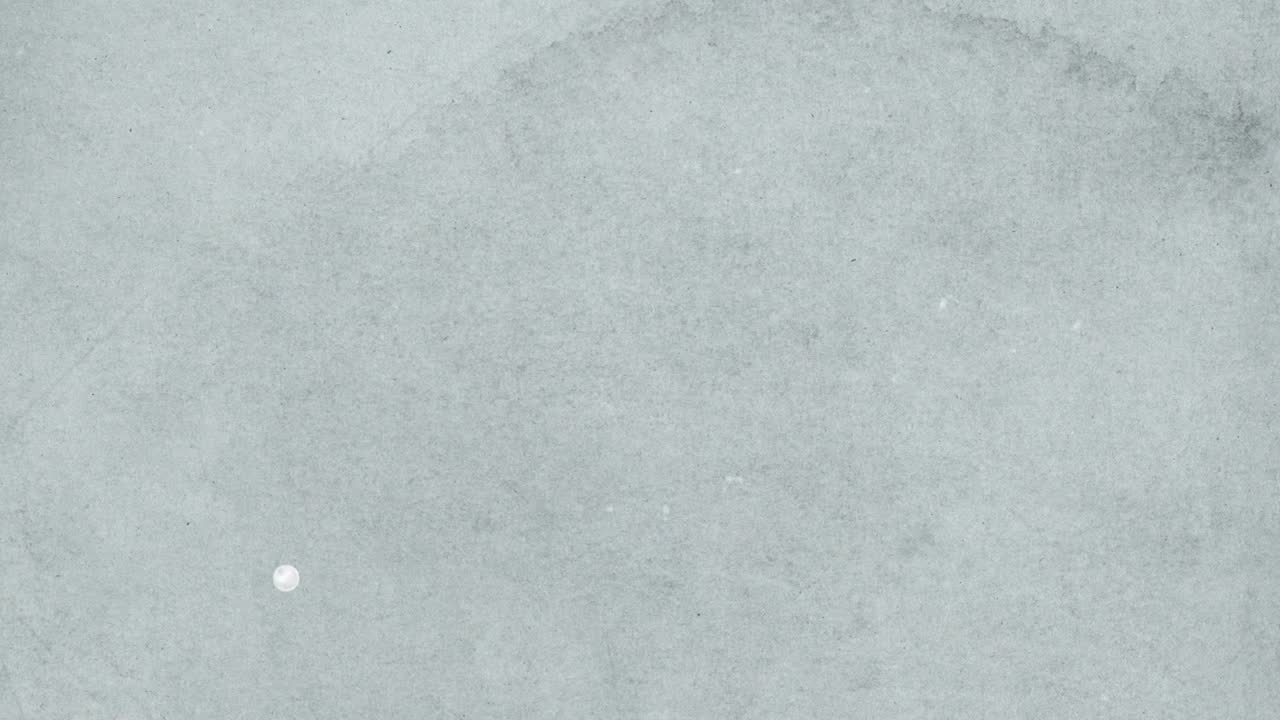
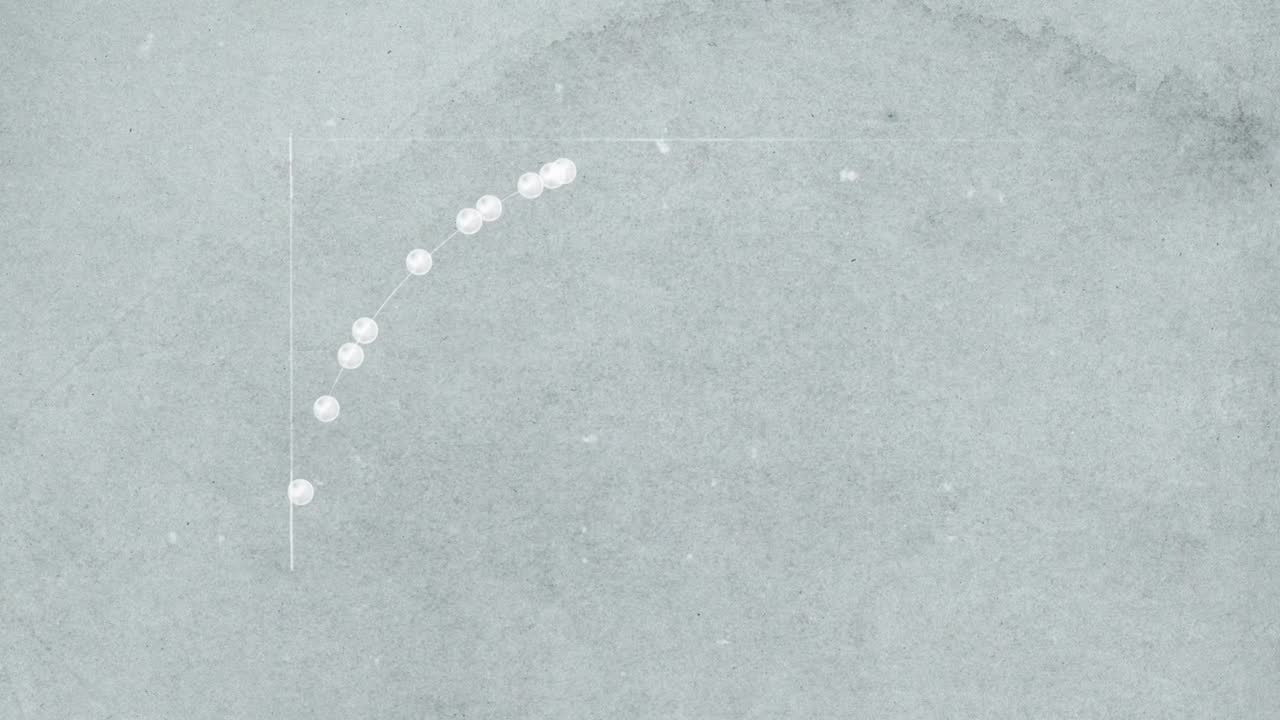
인트로 단축: 영상 앞뒤 0.5초 트림(2.9s) + 페이드인 1s(재생중) + 페이드아웃 1.2s 전부터 0.6s로

diff --git a/components/intro.tsx b/components/intro.tsx
@@ -4,15 +4,16 @@ import { useCallback, useEffect, useRef, useState } from "react";
 
 /**
  * Session-once intro splash: a white screen with a small, subtle (50%) video.
- * The video fades IN over the (instantly-white, flash-free) cover, plays, and
- * the whole thing fades OUT starting shortly before the clip ends so the reveal
- * overlaps the last moment of the video for a smoother hand-off to the site.
+ * The video fades IN over ~1s while it plays, then the whole thing fades OUT
+ * starting well before the clip ends so the hand-off to the site feels quick
+ * and smooth (the video is also pre-trimmed front/back to ~2.9s).
  *
  * Skipped on repeat visits in the same session and for "reduce motion" users
  * (both handled by the inline boot script in app/layout.tsx).
  */
-const FADE_MS = 700;
-const FADE_LEAD = 0.8; // begin fading out this many seconds before the video ends
+const FADE_IN_MS = 1000; // video rises up over its first second (while playing)
+const FADE_OUT_MS = 600; // quicker fade out
+const FADE_LEAD = 1.2; // begin fading out this many seconds before the video ends
 
 export function Intro() {
   const [show, setShow] = useState(false);
@@ -29,7 +30,7 @@ export function Intro() {
     window.setTimeout(() => {
       root.classList.remove("mt-intro-on", "mt-intro-out", "mt-intro-lock");
       setShow(false);
-    }, FADE_MS + 60);
+    }, FADE_OUT_MS + 60);
   }, []);
 
   useEffect(() => {
@@ -41,7 +42,7 @@ export function Intro() {
     }
     setShow(true);
     const fadeIn = window.setTimeout(() => setEntered(true), 50); // paint at 0, then fade in
-    const safety = window.setTimeout(dismiss, 5500); // fallback if playback is blocked
+    const safety = window.setTimeout(dismiss, 4000); // fallback if playback is blocked
     return () => {
       window.clearTimeout(fadeIn);
       window.clearTimeout(safety);
@@ -62,7 +63,7 @@ export function Intro() {
       className="fixed inset-0 z-[9991] flex cursor-pointer items-center justify-center transition-opacity ease-out"
       style={{
         opacity: out ? 0 : entered ? 1 : 0,
-        transitionDuration: `${FADE_MS}ms`,
+        transitionDuration: `${out ? FADE_OUT_MS : FADE_IN_MS}ms`,
       }}
     >
       <video

diff --git a/app/globals.css b/app/globals.css
@@ -73,7 +73,7 @@
     background-color: #ffffff;
     z-index: 9990;
     pointer-events: none;
-    transition: opacity 700ms ease;
+    transition: opacity 600ms ease;
   }
   html.mt-intro-out #mt-intro-cover {
     opacity: 0;